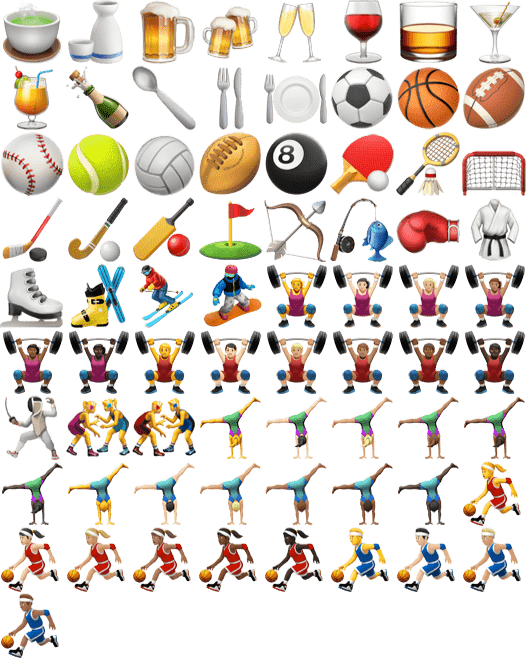
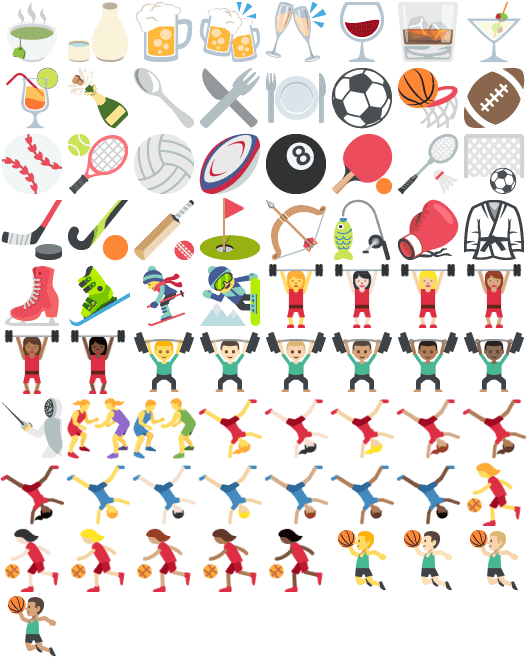
[TF] Replace Apple's emojis with EmojiOne

diff --git a/TMessagesProj/src/main/assets/README.md b/TMessagesProj/src/main/assets/README.md
@@ -1,0 +1,14 @@
+These files are sprite sheets generated with TelegramEmojiGenerator[1].
+
+They contain visual assets from both EmojiOne[2] and Twemoji[3].
+
+EmojiOne is licensed under Creative Commons Attribution 4.0 International.
+Twemoji is licensed under Creative Commons Attribution 4.0 International.
+
+Thanks to Ruslan Boitsov (thermatk) for his work on TelegramEmojiGenerator.
+
+
+[1] https://github.com/thermatk/TelegramEmojiGenerator
+[2] http://emojione.com/
+[3] https://twitter.github.io/twemoji/
+
